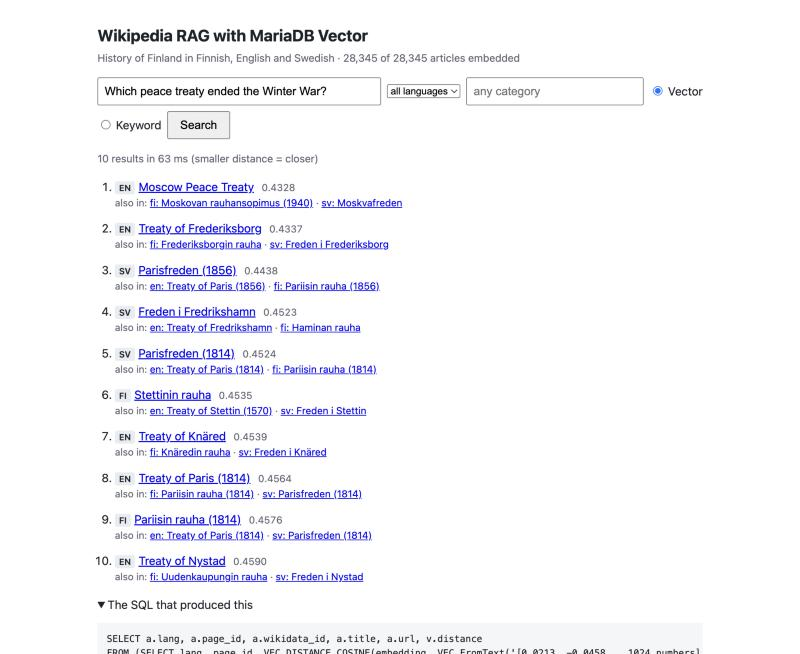
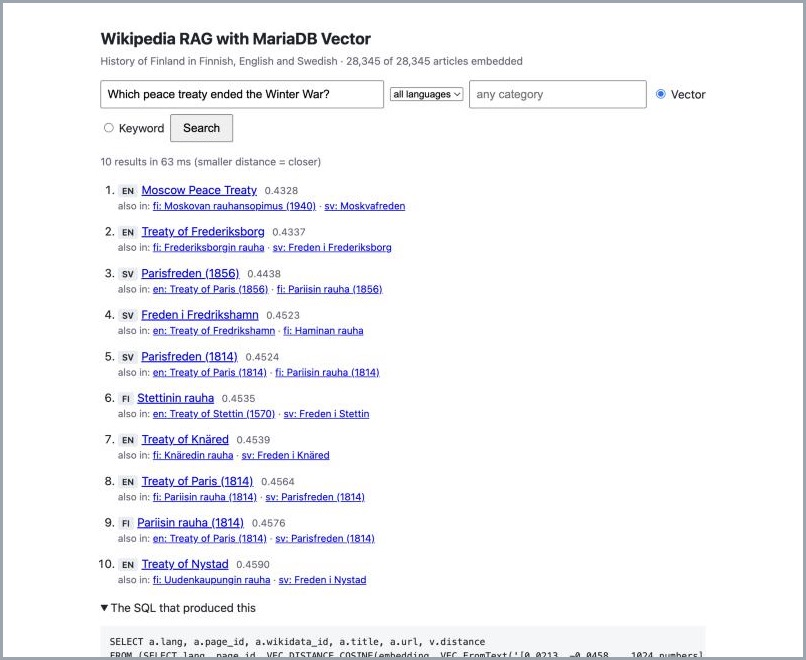
README: border on the screenshot; open question on user experience and where it should run

Changed region(s): [[0.0, 0.0, 1.0, 1.0]]

diff --git a/README.md b/README.md
@@ -646,6 +646,18 @@ exact terms. *(Hybrid: to do.)*
 4. **Which AI model for *Ask* (later)?** Whole articles need a long context, which pushes toward a
    cloud model (API key). A local model through Ollama keeps it free and offline but works best
    with chunks.
+5. **User experience, and where this should live.** Who is it for — readers looking something up,
+   or editors looking for gaps and sources — and what should they see: a list of articles, an
+   answer, or both? And where would it run:
+   - **A separate web page**, as now: easiest, but people have to find it.
+   - **A tool on [Wikimedia Toolforge](https://wikitech.wikimedia.org/wiki/Portal:Toolforge)**,
+     Wikimedia's hosting for community tools, which also offers MariaDB databases (ToolsDB).
+     The realistic route for a community tool. *(to verify: whether ToolsDB's MariaDB version has
+     vector search, and where the question embedding would run — there is no GPU.)*
+   - **Inside Wikipedia**: a MediaWiki extension, or a gadget (a script editors switch on) that
+     calls a Toolforge service — e.g. "articles on this topic in other languages" next to an
+     article. Closest to the reader; an extension needs Wikimedia's review and runs on their
+     production servers, which are themselves MariaDB.
 
 ## Authors
 
